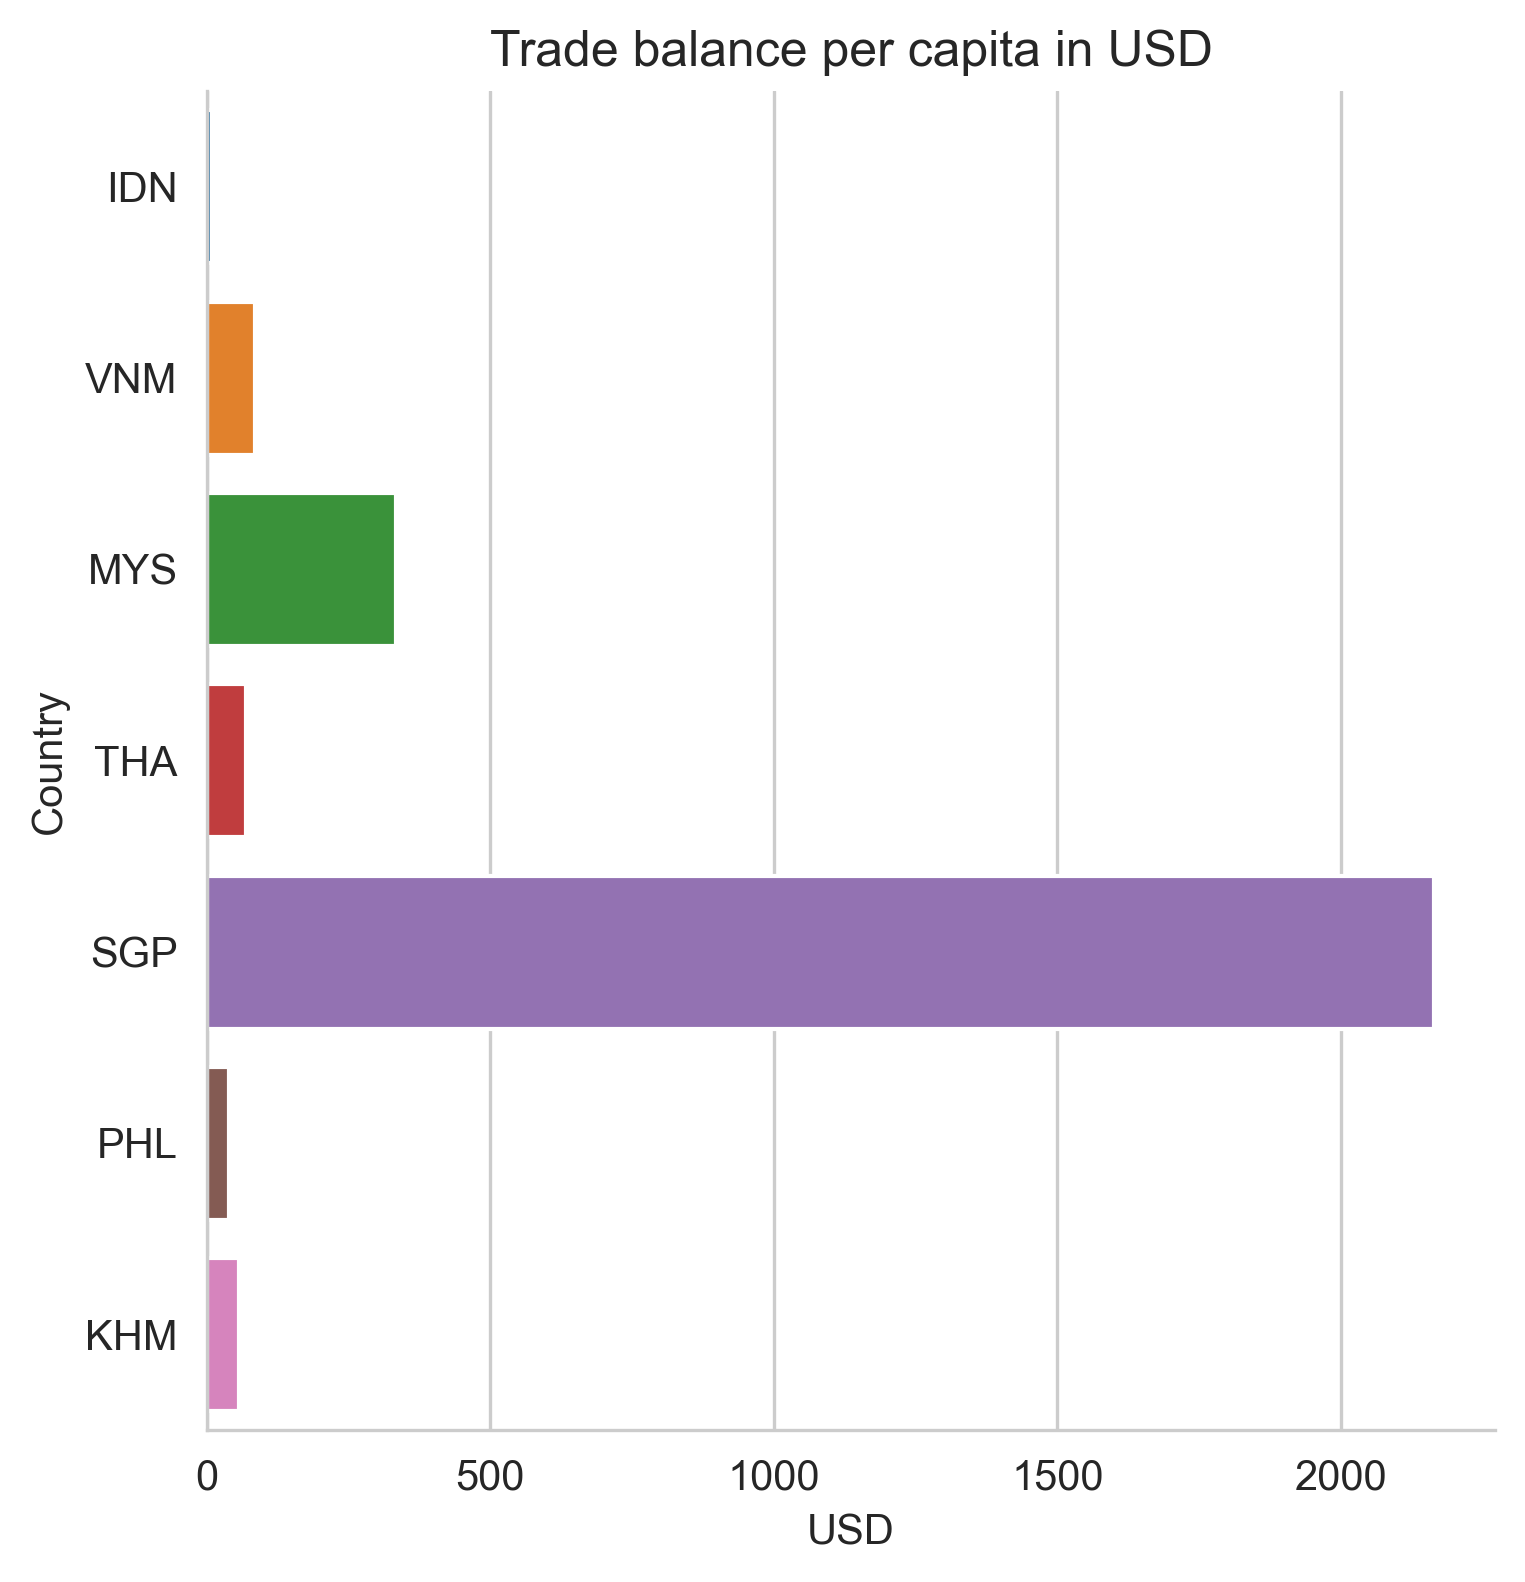
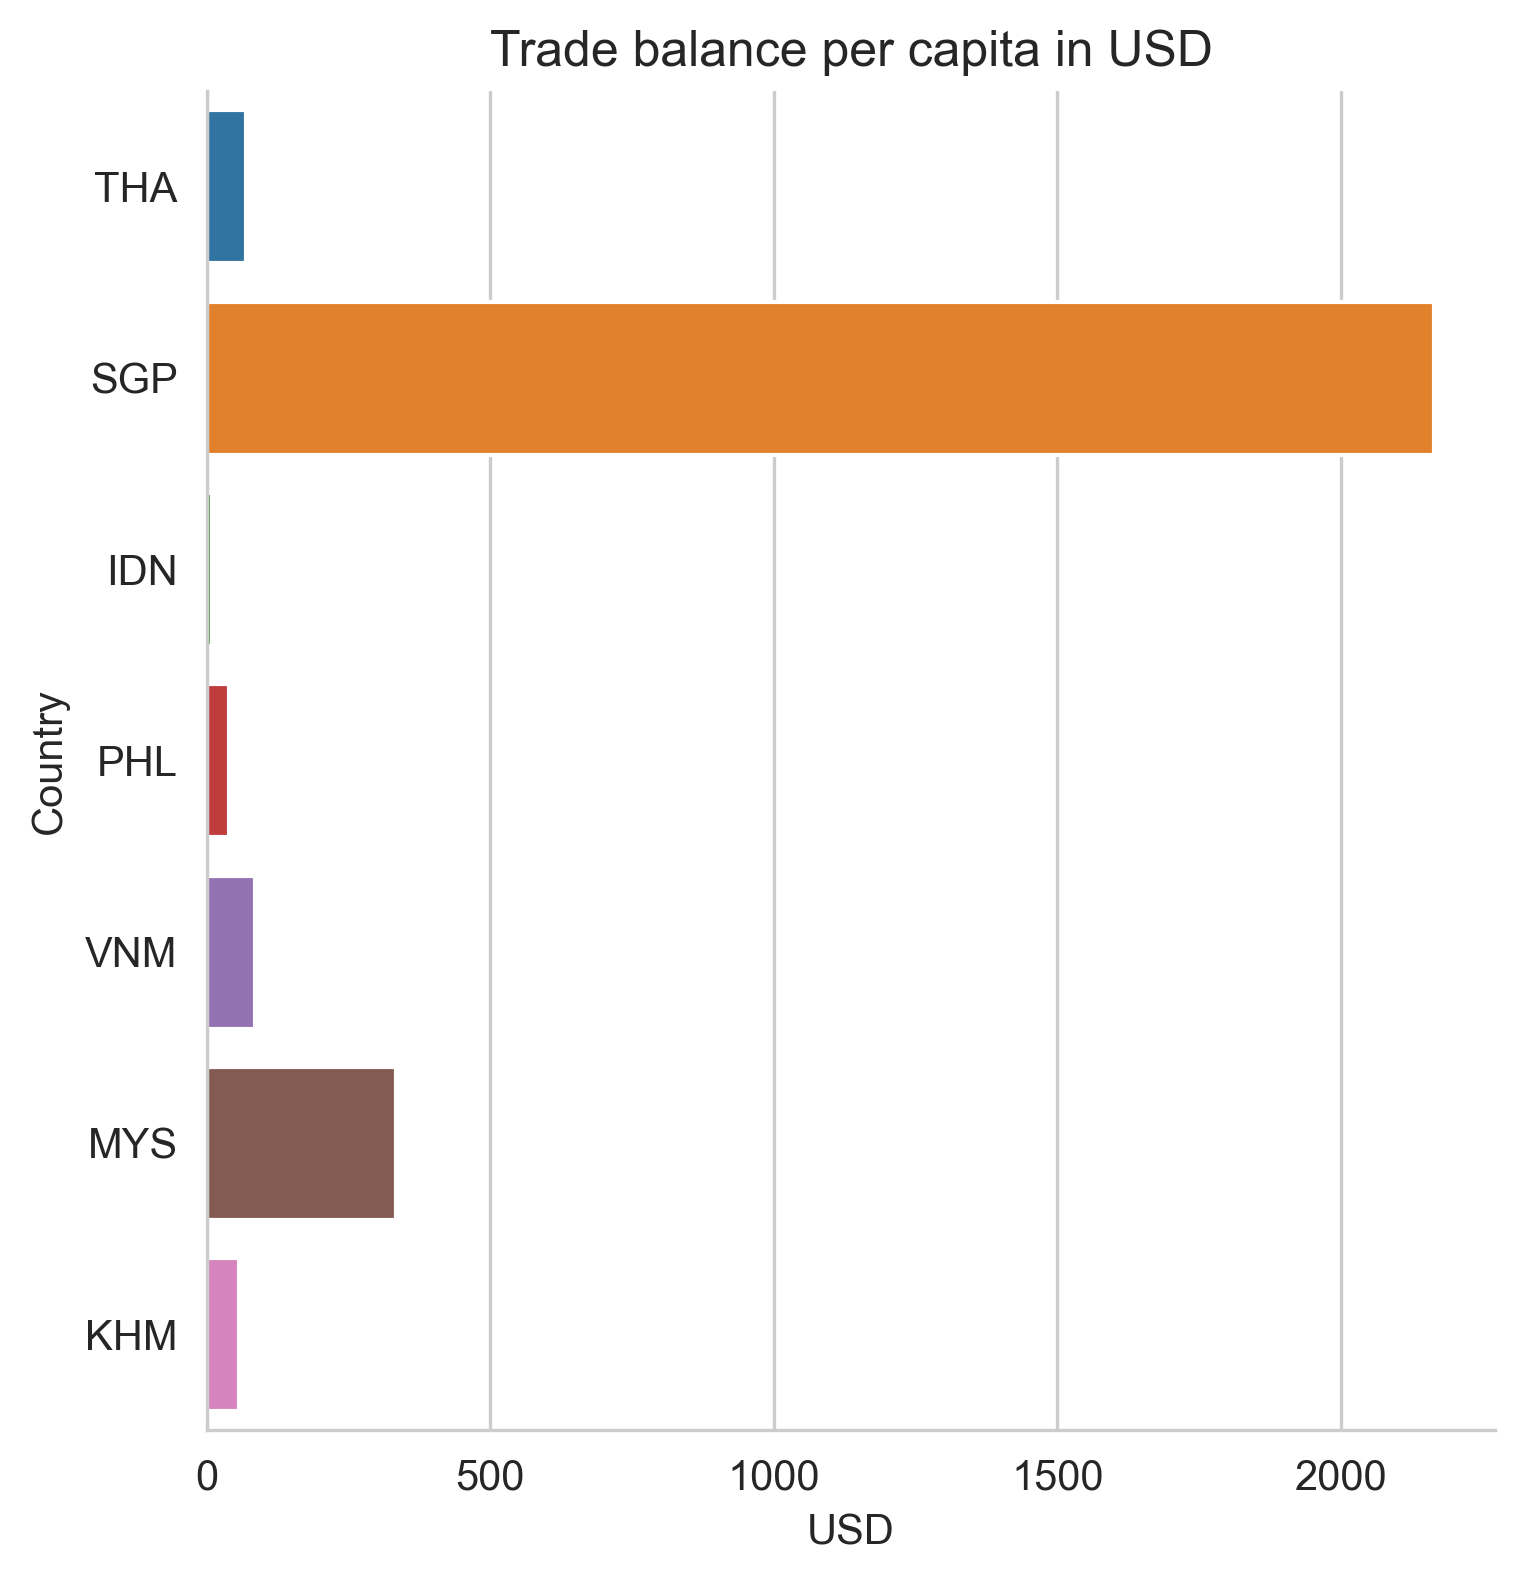
update remote

diff --git a/python/explore_energy_generation.py b/python/explore_energy_generation.py
@@ -95,7 +95,23 @@ idn_df = top10_products(labelled_df, 'IDN')
 khm_df = top10_products(labelled_df, 'KHM')
 
 ### OPEC 
-
+#### Algeria, Angola, Congo, Equatorial Guinea, Gabon, Iran, Iraq, Kuwait, Libya, Nigeria, Qatar, Saudi Arabia, 
+#### United Arab Emirates, Venezuela, and Yemen
+dza_df = top10_products(labelled_df, 'DZA')
+ago_df = top10_products(labelled_df, 'AGO')
+cog_df = top10_products(labelled_df, 'COG')
+gnq_df = top10_products(labelled_df, 'GNQ')
+gab_df = top10_products(labelled_df, 'GAB')
+irn_df = top10_products(labelled_df, 'IRN')
+irq_df = top10_products(labelled_df, 'IRQ')
+kwt_df = top10_products(labelled_df, 'KWT')
+lby_df = top10_products(labelled_df, 'LBY')
+nga_df = top10_products(labelled_df, 'NGA')
+qat_df = top10_products(labelled_df, 'QAT')
+sau_df = top10_products(labelled_df, 'SAU')
+are_df = top10_products(labelled_df, 'ARE')
+ven_df = top10_products(labelled_df, 'VEN')
+yem_df = top10_products(labelled_df, 'YEM')
 
 ### EU 
 
@@ -153,6 +169,23 @@ plot_top10_partners(phl_df, 'PHL')
 plot_top10_partners(mys_df, 'MYS')
 plot_top10_partners(idn_df, 'IDN')
 plot_top10_partners(khm_df, 'KHM')
+
+plot_top10_partners(dza_df, 'DZA')
+plot_top10_partners(ago_df, 'AGO')
+plot_top10_partners(cog_df, 'COG')
+plot_top10_partners(gnq_df, 'GNQ')
+plot_top10_partners(gab_df, 'GAB')
+plot_top10_partners(irn_df, 'IRN')
+plot_top10_partners(irq_df, 'IRQ')
+plot_top10_partners(kwt_df, 'KWT')
+plot_top10_partners(lby_df, 'LBY')
+plot_top10_partners(nga_df, 'NGA')
+plot_top10_partners(qat_df, 'QAT')
+plot_top10_partners(sau_df, 'SAU')
+plot_top10_partners(are_df, 'ARE')
+plot_top10_partners(ven_df, 'VEN')
+plot_top10_partners(yem_df, 'YEM')
+
 # Combine the five datasets 
 combined_df = pl.concat([rwa_df, uga_df, ken_df, bdi_df, tza_df])
 #rwa_uga_df = combined_df.groupby(['location_code'])['trade_bal_by_population'].sum().reset_index()
@@ -217,6 +250,29 @@ plt.title('Trade balance per capita in USD')
 plt.xlabel('USD')
 plt.ylabel('Country')
 plt.savefig('../output/avg_trade_bal_per_capita_asean.png', dpi=300, bbox_inches='tight')
+
+
+
+opec_df = pl.concat([dza_df, ago_df, cog_df, gnq_df, gab_df, irn_df, irq_df, kwt_df, lby_df, nga_df, qat_df, sau_df, are_df, ven_df, yem_df])
+aggregated_opec_df = (
+    opec_df
+    .groupby(['location_code'])
+    .agg(
+        pl.col('trade_bal_by_population').mean().alias('avg_trade_bal_per_capita')
+    ) )
+
+print(aggregated_opec_df)
+
+# Convert polars table to png and save to output 
+# Write the code
+fig, ax = plt.subplots(figsize=(5, 3))
+sns.set_style("whitegrid")
+sns.factorplot(x='avg_trade_bal_per_capita', y='location_code', data=aggregated_opec_df.to_pandas(), kind='bar')
+plt.title('Trade balance per capita in USD')
+plt.xlabel('USD')
+plt.ylabel('Country')
+plt.savefig('../output/avg_trade_bal_per_capita_opec.png', dpi=300, bbox_inches='tight')
+
 # Plot bar plot with each subfigure representing a country code
 
 

diff --git a/README.md b/README.md
@@ -39,6 +39,7 @@ In order to compare apples to apples, we need to weight the trade balance by pop
 
 ### ASEAN 
 ![](output/avg_trade_bal_per_capita_asean.png)
+
 ### OPEC 
 ![](output/avg_trade_bal_per_capita_opec.png)
 
